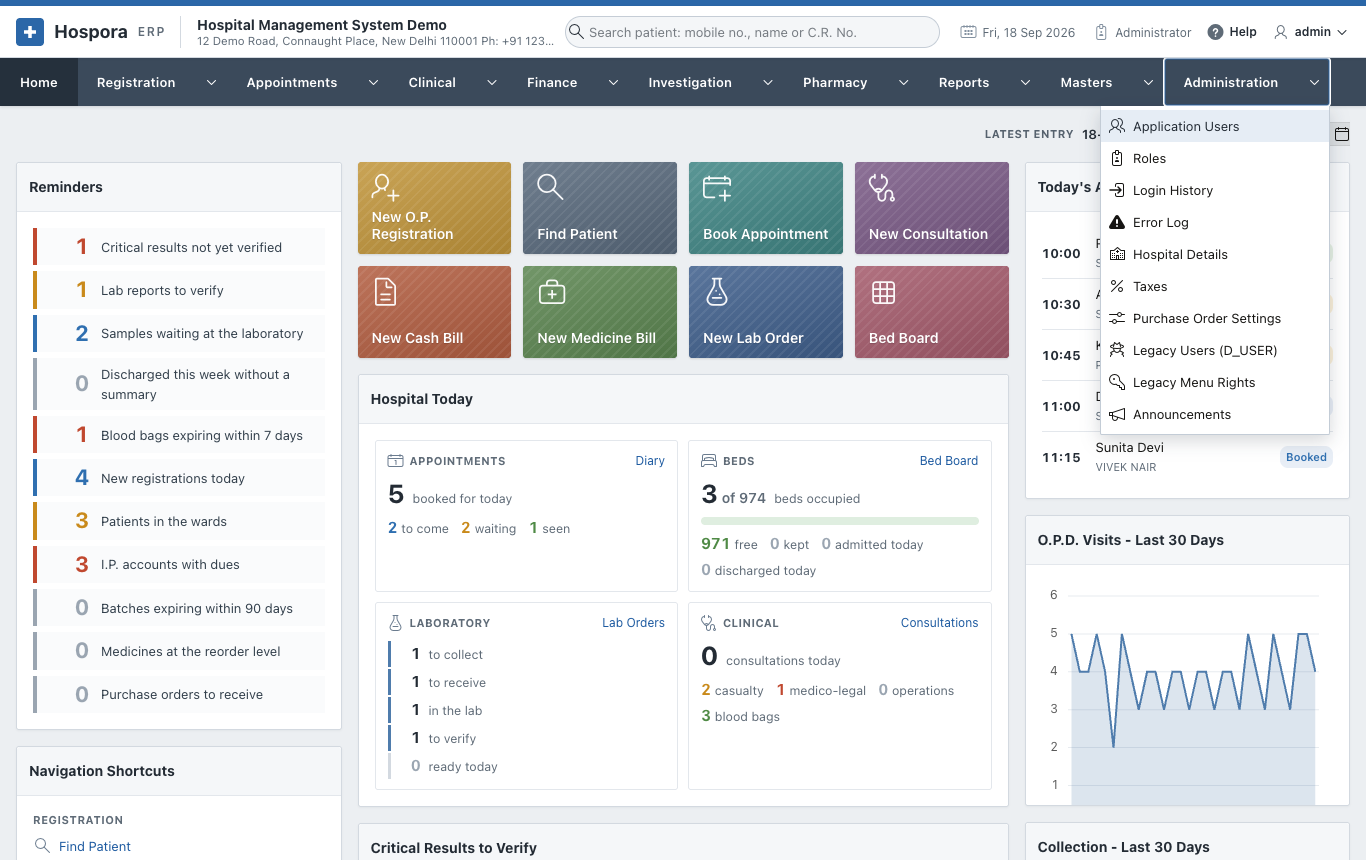
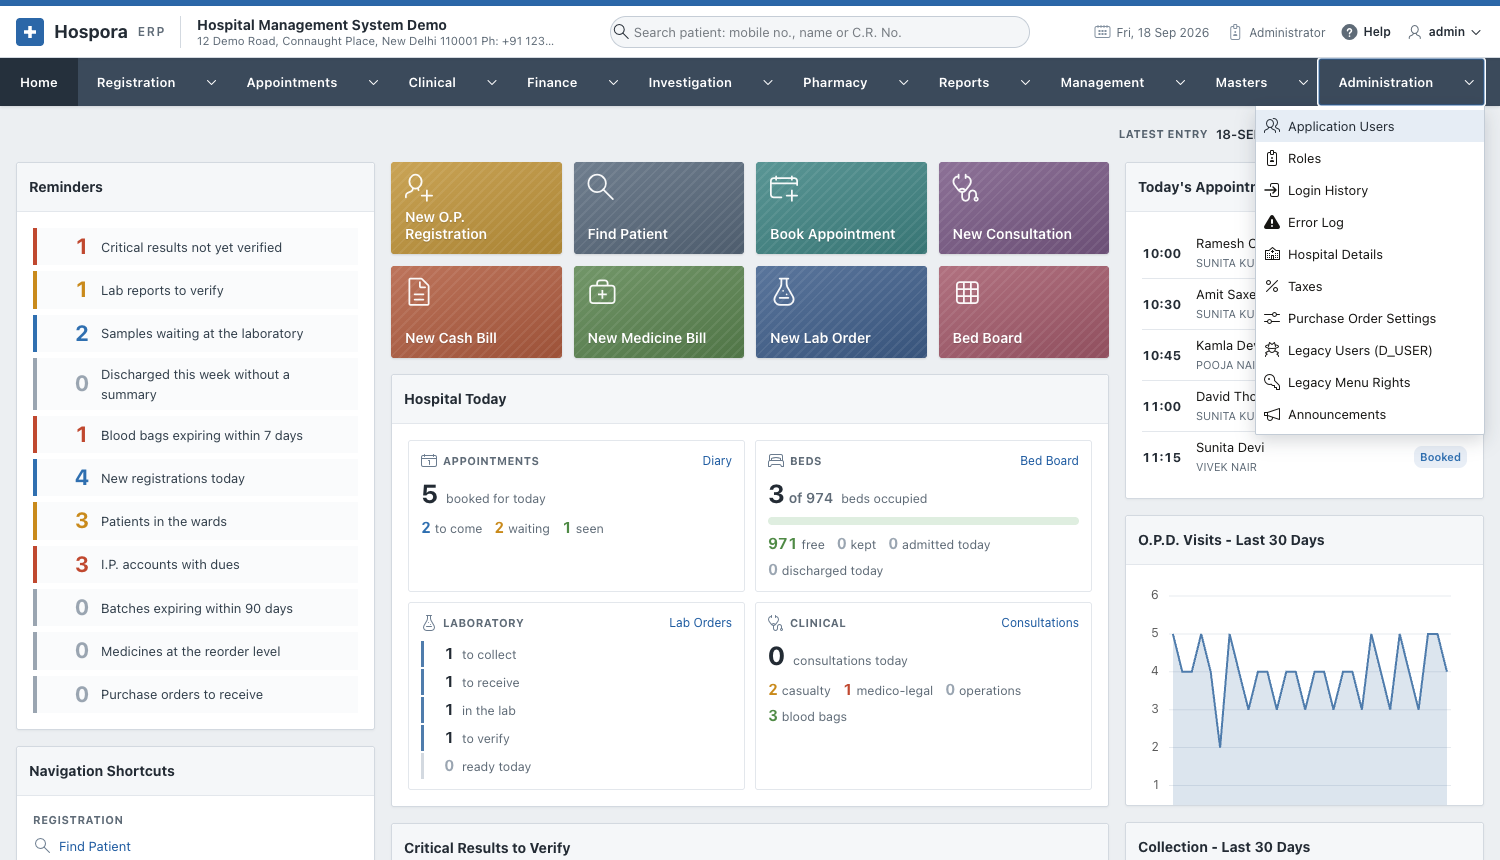
Management chapter: dashboard, analyses and report schedules; menu pictures of Masters and Administration retaken

diff --git a/docs/management/schedules.md b/docs/management/schedules.md
@@ -1,0 +1,58 @@
+# Report Schedules
+
+**Management > Report Schedules** mails a report on its own, every day, every week or every month, to
+the addresses you give: the director gets the summary of the day each morning, the accountant the
+collections each Monday, the owners the management report on the first of the month.
+
+![Report Schedules](../assets/screens/management/schedules.png)
+
+The upper list holds the schedules, with when each goes out, when it was last sent and when it goes next.
+**Mails Sent** below is the log of every mail, with what happened to it.
+
+## Add or change a schedule
+
+Click **New Schedule** (1), or the pencil of a schedule to change it.
+
+![A report schedule](../assets/screens/management/schedule.png)
+
+| Field | What to put in |
+|---|---|
+| **Title** | the subject of the mail; the hospital's name is added to it |
+| **Report** | which report goes (see below) |
+| **Send** (1) | **Every day**, **Every week** (then choose the day in **On**) or **Every month** (then the **Day of the Month**, 1 to 28) |
+| **At** | the time, as HH:MI in 24 hours, e.g. 07:00 or 18:30 |
+| **Send To** (2) | one or more e-mail addresses, separated by commas |
+| **Active** | **No** stops the schedule without deleting it |
+
+Click **Save**. **Next** (3) shows when the mail will go. **What the Mail Looks Like** shows the report as it
+would be sent now, and **Mails of this Schedule** lists what was sent. **Send Now** (4) sends it at once,
+without waiting for its time.
+
+| Report | What it holds |
+|---|---|
+| **Summary of the day** | the key figures, revenue by source and by department, collection by mode of payment |
+| **Management report (MIS)** | the key figures, revenue by source, department and the ten top doctors, the payer mix, the lab turnaround by test, what is owed now |
+| **Collections** | collection by mode of payment and by user |
+| **Outstanding dues** | what is owed now, by patients and insurers, and the largest dues with how many days old they are |
+
+The period follows the frequency: a daily report covers **yesterday**, a weekly one **the last seven
+days**, a monthly one **the month before**. Outstanding dues are always as on the moment the mail goes.
+
+## Setting up e-mail
+
+The mails are sent from the e-mail address of the hospital in
+[Administration > Hospital Details](../administration/settings.md#hospital-details), through the mail
+server of the Oracle APEX instance.
+
+- On **apex.oracle.com** the mail server is already set: give the hospital an e-mail address and the
+  schedules work.
+- On your own server, the database administrator sets the SMTP server once, in **APEX Administration
+  Services > Manage Instance > Instance Settings > Email** (host, port, user and password of the mail
+  account).
+
+Until then, a mail waits in the APEX mail queue and **Mails Sent** says *Waiting in the mail queue*. A mail
+the server refused says *Not sent* with the reason. A job looks every 15 minutes for the schedules whose
+time has come.
+
+!!! warning
+    A report holds the hospital's figures. Send it only to addresses inside the hospital.

diff --git a/docs/management/analyses.md b/docs/management/analyses.md
@@ -1,0 +1,52 @@
+# Analyses
+
+Each analysis has the period, two charts, summary tables, and then every line in an interactive report
+(search, filter, save a view, download - see [how every report works](../reports/index.md#how-every-report-works)).
+
+## Revenue by Department and Doctor
+
+**Management > Revenue by Department and Doctor**. What was billed, by department, by doctor and by
+source (registration, cash bill, credit bill, I.P. bill, pharmacy ...), each with its share of the whole.
+The lines show every bill line with its department, doctor and payer. The saved views **By Department**
+and **By Doctor** group the lines with a total for each.
+
+![Revenue by Department and Doctor](../assets/screens/management/r501.png)
+
+!!! note
+    A line without a doctor (a medicine bill, a bill made without one) is left out of the doctor summary
+    but counted everywhere else.
+
+## Occupancy and Length of Stay
+
+**Management > Occupancy and Length of Stay**. The beds occupied day by day, and for every ward its beds,
+the bed-days used, the occupancy and the discharges. Then the average and the longest stay by doctor and
+by diagnosis. The lines are the patients discharged in the period.
+
+![Occupancy and Length of Stay](../assets/screens/management/r502.png)
+
+## Lab Turnaround
+
+**Management > Lab Turnaround**. For every test: the reports verified, the hours to collect the sample,
+the hours in the laboratory, the hours from order to report, the target and the share on time. **By
+Priority** compares Routine, Urgent and Stat orders, and counts those not ready yet. The lines are the
+orders of the period, marked **On time**, **Late** or **Not ready**.
+
+![Lab Turnaround](../assets/screens/management/r503.png)
+
+## Payer Mix
+
+**Management > Payer Mix**. How much of the revenue each payer brings: self-paying patients, insurers,
+TPAs and companies, with self-pay and insured month by month for a year. **Insurance Claims Opened in the
+Period** shows, for each insurer or TPA, what was claimed, approved, settled, deducted as TDS and
+disallowed.
+
+![Payer Mix](../assets/screens/management/r504.png)
+
+## Billing vs Collection
+
+**Management > Billing vs Collection**. Day by day, what was billed and what was collected, the
+difference and the running difference. A negative running difference is money still to come in. The
+summaries show the collection by mode of payment (cash, UPI, card, bank transfer, insurance settlement)
+and who owes what today.
+
+![Billing vs Collection](../assets/screens/management/r505.png)

diff --git a/docs/management/index.md b/docs/management/index.md
@@ -1,0 +1,33 @@
+# Management
+
+The **Management** menu shows how the hospital is doing: money, patients, beds and the laboratory,
+for any period, against the period before it. It also mails reports to the people who need them, on a
+schedule.
+
+Only an **Administrator** sees this menu. No other role opens it, whatever its modules.
+
+![The Management menu](../assets/screens/management/menu.png)
+
+| Page | What it shows |
+|---|---|
+| [Management Dashboard](dashboard.md) | The key figures of a period against the period before, and six charts |
+| [Analyses](analyses.md) | Revenue by Department and Doctor, Occupancy and Length of Stay, Lab Turnaround, Payer Mix, Billing vs Collection |
+| [Report Schedules](schedules.md) | Reports mailed every day, week or month to a list of addresses |
+
+Every page works like the [reports](../reports/index.md#how-every-report-works): choose **From** and **To**,
+click **Show**. A page opens on the current month.
+
+## Where the figures come from
+
+Nothing is typed in for these pages: they read the bills, receipts, admissions and lab orders.
+
+| Figure | Counted from |
+|---|---|
+| **Revenue** | every bill once: registration and renewal fees, the lines of cash and credit bills, the I.P. final bill (charges and the advance), medicine bills less returns, miscellaneous bills |
+| **Department** | the unit of a registration, the tariff group of a bill line (Pathology, Radiology ...), the ward of an I.P. bill, Pharmacy for medicines |
+| **Payer** | the empanelled company of the bill; for an I.P. bill without one, the insurer or TPA of a [claim](../finance/insurance.md#insurance-claims) on the admission; otherwise **Self-pay** |
+| **Collected** | every payment received, less refunds and returns (doctors' payouts are not counted) |
+| **Outstanding** | what patients and insurers owe now, as in [Outstanding Dues](../finance/inpatient-billing.md#outstanding-dues) |
+| **Bed occupancy** | bed-days used out of the beds of every ward (from **Masters > I.P. Wards**) times the days of the period |
+| **Average length of stay** | the days from admission to discharge of the patients discharged in the period (a same-day stay counts as one day) |
+| **Lab turnaround** | the hours from the order to the verified report; **on time** when within the longest target of its tests (**Investigation > Lab Test Settings**, 24 hours when none is set) |

diff --git a/docs/management/dashboard.md b/docs/management/dashboard.md
@@ -1,0 +1,41 @@
+# Management Dashboard
+
+**Management > Management Dashboard** puts the figures of a period side by side with the period of the
+same length just before it. It opens on the current month to date, against the same number of days
+before.
+
+![The Management Dashboard](../assets/screens/management/dashboard.png)
+
+1. **Period**: choose **From** and **To** and click **Show**. The line under **Key Figures** says which
+   period the figures are compared with.
+2. **A figure**: its value for the period. Click the box to open the page behind it, for the same period
+   (Revenue opens Revenue by Department and Doctor, Bed Occupancy opens Occupancy and Length of Stay ...).
+3. **The change** against the period before: **green** when it is better, **red** when it is worse. For
+   revenue more is better, for the average length of stay and the lab turnaround less is better. A
+   percentage (occupancy, collected of billed) changes by **points**. **none before** means the earlier
+   period had nothing to compare with. **Outstanding** is what is owed today, so it has no comparison.
+
+| Figure | Meaning |
+|---|---|
+| Revenue | everything billed in the period |
+| Collected | everything received in the period, less refunds |
+| Collected of Billed | Collected as a percentage of Revenue; over 100% when old dues or advances came in |
+| Outstanding | what patients and insurers owe today |
+| O.P.D. Visits | new registrations and renewals |
+| Admissions | patients admitted |
+| Bed Occupancy | how full the wards were |
+| Average Length of Stay | days in hospital of the patients discharged |
+| Lab Turnaround | average hours from the order to the verified report |
+| Lab Reports on Time | the share of reports verified within their target |
+
+## The charts
+
+Under the figures six charts show the same period: revenue by department, the payer mix, billed and
+collected day by day, the revenue of the last twelve months, the ten doctors with the most revenue, and
+the lab turnaround by test. Point at a bar or a slice to see its value.
+
+![The whole dashboard](../assets/screens/management/dashboard-full.png)
+
+!!! tip
+    The figures are worked out when the page opens, from the bills and registers themselves. A bill
+    saved a minute ago is already counted.

diff --git a/docs/getting-started/index.md b/docs/getting-started/index.md
@@ -36,7 +36,7 @@ user is locked. Ask the administrator to unlock it.
     Next to it: today's date, your **role**, your **cash counter**, **Help** (opens this guide in a new
     tab) and your user menu.
 3. <span class="n">3</span> **The menu bar**: Registration, Appointments, Clinical, Finance, Investigation,
-   Pharmacy, Reports, Masters, Administration. You see only the menus your role opens.
+   Pharmacy, Reports, Management, Masters, Administration. You see only the menus your role opens.
 4. <span class="n">4</span> **Reminders**: what needs doing, e.g. critical results not verified, samples
    waiting, discharges without a summary, blood bags about to expire, medicines at the reorder level.
    Click a line to go to it. Each role sees the reminders of its own work.
@@ -81,7 +81,7 @@ The line at the bottom of every page gives the release of Hospora ERP (e.g. *Hos
 
 | Role | Menus |
 |---|---|
-| Administrator | everything, with Masters and Administration |
+| Administrator | everything, with Management, Masters and Administration |
 | Reception | Registration, Appointments, Finance |
 | Operator | Registration, Appointments, Clinical, Finance, Investigation, Pharmacy, Reports |
 | Accountant | Finance, Reports |

diff --git a/docs/index.md b/docs/index.md
@@ -42,7 +42,8 @@ same numbers appear in the steps below each picture. Click a picture to see it f
 | [Investigation](investigation/index.md) | Lab orders, samples, results, X-ray and ultrasound reports |
 | [Pharmacy](pharmacy/index.md) | Medicine bills and returns, stock, purchase orders and entries |
 | [Reports](reports/index.md) | The registers and summaries, and how to print or download them |
+| [Management](management/index.md) | For administrators: the key figures, revenue, occupancy, lab turnaround, payer mix, and reports mailed on a schedule |
 | [Masters](masters/index.md) | Units, doctors, the tariff, wards, medicines and report formats |
-| [Administration](administration/index.md) | Users and roles, hospital details, taxes, message templates |
+| [Administration](administration/index.md) | Users and roles, hospital details, taxes, logs |
 | [Workflows](workflows/index.md) | Whole journeys from start to end: an O.P.D. visit, an admission to discharge, a lab test, a cashless claim |
 | [FAQ](faq.md) | Common questions and problems |
